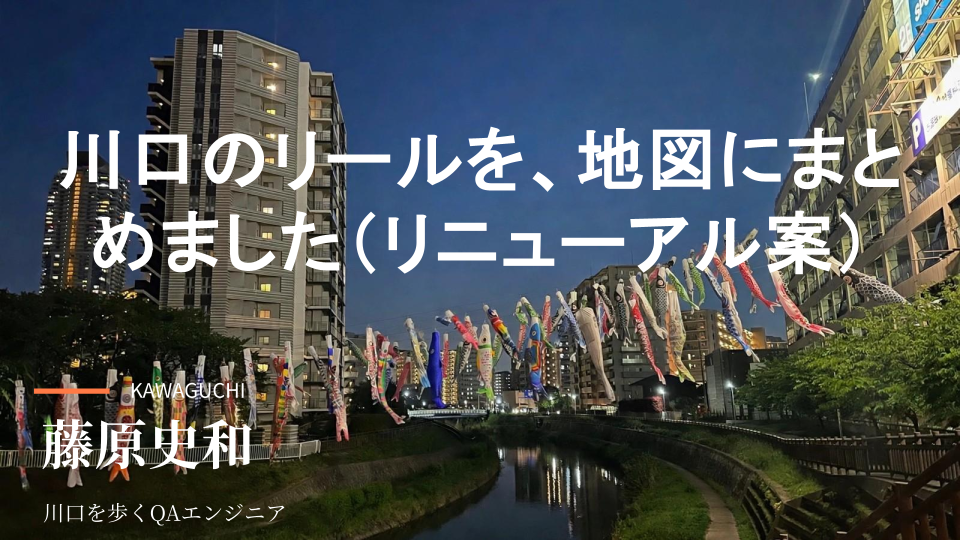
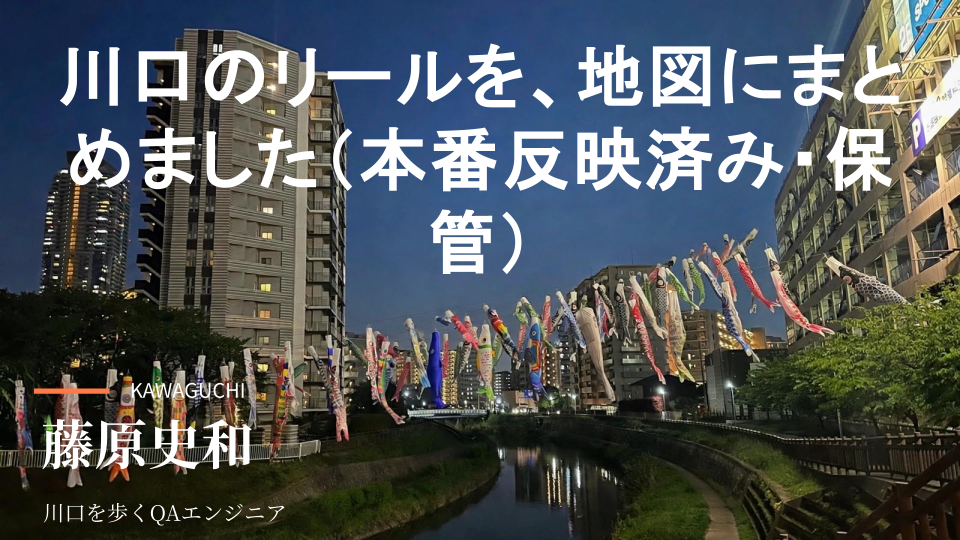
deploy: 1b3d87ea23267964468be5e464e73a02f8a7c5c0

diff --git a/staging/1hZpQ7Y9qMUD4Q0GMZRSHMPS4o0uRW0fplzaqt2qAC68.html b/staging/1hZpQ7Y9qMUD4Q0GMZRSHMPS4o0uRW0fplzaqt2qAC68.html
@@ -1,0 +1,67 @@
+<!DOCTYPE html>
+<html lang="ja">
+  <head>
+    <meta charset="UTF-8" />
+    <meta name="viewport" content="width=device-width, initial-scale=1.0" />
+    <link rel="preconnect" href="https://fonts.googleapis.com">
+    <link rel="preconnect" href="https://fonts.gstatic.com" crossorigin>
+    <link rel="preconnect" href="https://script.google.com">
+    <link rel="preconnect" href="https://script.googleusercontent.com" crossorigin>
+    <link href="https://fonts.googleapis.com/css2?family=Shippori+Mincho+B1:wght@700;800&family=Zen+Kaku+Gothic+New:wght@400;500;700&display=swap" rel="stylesheet">
+    <link rel="icon" href="/blog/favicon.ico" sizes="any">
+    <link rel="icon" type="image/png" sizes="32x32" href="/blog/favicon-32.png">
+    <link rel="icon" type="image/png" sizes="16x16" href="/blog/favicon-16.png">
+    <link rel="apple-touch-icon" sizes="180x180" href="/blog/apple-touch-icon.png">
+    <meta property="og:title" content="2026-11-15 ブログ運営の裏側：アクセス解析の「水増し」を止めた話" />
+    <meta property="og:description" content="ブログ運営の裏側：アクセス解析の「水増し」を止めた話 このブログの運営の裏側の話です。 このホームページとブログでは、11月からアクセス解析（Googleアナリティクス）を見るようにしました。どの記事がどれくらい読まれているかを知りたかった" />
+    <meta property="og:type" content="article" />
+    <meta property="og:url" content="https://freddiefujiwara.com/blog/staging/1hZpQ7Y9qMUD4Q0GMZRSHMPS4o0uRW0fplzaqt2qAC68" />
+    <meta property="og:image" content="https://freddiefujiwara.com/blog/staging/ogp/1hZpQ7Y9qMUD4Q0GMZRSHMPS4o0uRW0fplzaqt2qAC68.png" />
+    <meta property="og:image:width" content="1200" />
+    <meta property="og:image:height" content="630" />
+    <meta property="og:site_name" content="藤原史和｜川口を歩くQAエンジニア" />
+    <meta name="twitter:card" content="summary_large_image" />
+    <meta name="twitter:image" content="https://freddiefujiwara.com/blog/staging/ogp/1hZpQ7Y9qMUD4Q0GMZRSHMPS4o0uRW0fplzaqt2qAC68.png" />
+    <script>
+      (function () {
+        var l = window.location;
+
+        // 404.html から /blog/?/xxx にされている想定
+        if (l.search && l.search.startsWith('?/')) {
+          var route = l.search.slice(2); // "xxx..."
+
+          // route に &a=b が混ざる可能性があるので分離
+          var extra = '';
+          var ampIndex = route.indexOf('&');
+          if (ampIndex !== -1) {
+            extra = '?' + route.slice(ampIndex + 1);
+            route = route.slice(0, ampIndex);
+          }
+
+          // /blog/ + route へ戻す（末尾/を1回だけ調整）
+          var base = l.pathname; // "/blog/"
+          if (!base.endsWith('/')) base += '/';
+          var newUrl = base + route + extra + l.hash;
+
+          window.history.replaceState(null, '', newUrl);
+        }
+      })();
+    </script>
+    <title>2026-11-15 ブログ運営の裏側：アクセス解析の「水増し」を止めた話</title>
+      <!-- Google tag (gtag.js) -->
+    <script async src="https://www.googletagmanager.com/gtag/js?id=G-W2C6FNCW86"></script>
+    <script>
+      window.dataLayer = window.dataLayer || [];
+      function gtag(){dataLayer.push(arguments);}
+      gtag('js', new Date());
+      // Page views are sent by the router (src/analytics.js) so SPA
+      // navigations are counted without duplicates.
+      gtag('config', 'G-W2C6FNCW86', { send_page_view: false });
+    </script>
+    <script type="module" crossorigin src="/blog/staging/assets/index-pYZje3um.js"></script>
+    <link rel="stylesheet" crossorigin href="/blog/staging/assets/index-DD-P0Kwn.css">
+  </head>
+  <body>
+    <div id="app"></div>
+  </body>
+</html>

diff --git a/staging/13_nym_9GeB2g1WLFrJWM-4_Y4ozty_1ZRJV_mvA0O9g.html b/staging/13_nym_9GeB2g1WLFrJWM-4_Y4ozty_1ZRJV_mvA0O9g.html
@@ -1,0 +1,67 @@
+<!DOCTYPE html>
+<html lang="ja">
+  <head>
+    <meta charset="UTF-8" />
+    <meta name="viewport" content="width=device-width, initial-scale=1.0" />
+    <link rel="preconnect" href="https://fonts.googleapis.com">
+    <link rel="preconnect" href="https://fonts.gstatic.com" crossorigin>
+    <link rel="preconnect" href="https://script.google.com">
+    <link rel="preconnect" href="https://script.googleusercontent.com" crossorigin>
+    <link href="https://fonts.googleapis.com/css2?family=Shippori+Mincho+B1:wght@700;800&family=Zen+Kaku+Gothic+New:wght@400;500;700&display=swap" rel="stylesheet">
+    <link rel="icon" href="/blog/favicon.ico" sizes="any">
+    <link rel="icon" type="image/png" sizes="32x32" href="/blog/favicon-32.png">
+    <link rel="icon" type="image/png" sizes="16x16" href="/blog/favicon-16.png">
+    <link rel="apple-touch-icon" sizes="180x180" href="/blog/apple-touch-icon.png">
+    <meta property="og:title" content="2026-10-27 川口のリールを、地図にまとめました（差し替え前バックアップ 2026-11-06）" />
+    <meta property="og:description" content="📍川口のリールを、地図にまとめました これまでInstagramで紹介してきた川口のお店を、Googleマイマップに全部ピン留めしました。 🍜 飲食店 25軒 💈 理容・サロン 4軒 🧘 リラクゼーション 3軒 ピンをタップすると、" />
+    <meta property="og:type" content="article" />
+    <meta property="og:url" content="https://freddiefujiwara.com/blog/staging/13_nym_9GeB2g1WLFrJWM-4_Y4ozty_1ZRJV_mvA0O9g" />
+    <meta property="og:image" content="https://freddiefujiwara.com/blog/staging/ogp/13_nym_9GeB2g1WLFrJWM-4_Y4ozty_1ZRJV_mvA0O9g.png" />
+    <meta property="og:image:width" content="1200" />
+    <meta property="og:image:height" content="630" />
+    <meta property="og:site_name" content="藤原史和｜川口を歩くQAエンジニア" />
+    <meta name="twitter:card" content="summary_large_image" />
+    <meta name="twitter:image" content="https://freddiefujiwara.com/blog/staging/ogp/13_nym_9GeB2g1WLFrJWM-4_Y4ozty_1ZRJV_mvA0O9g.png" />
+    <script>
+      (function () {
+        var l = window.location;
+
+        // 404.html から /blog/?/xxx にされている想定
+        if (l.search && l.search.startsWith('?/')) {
+          var route = l.search.slice(2); // "xxx..."
+
+          // route に &a=b が混ざる可能性があるので分離
+          var extra = '';
+          var ampIndex = route.indexOf('&');
+          if (ampIndex !== -1) {
+            extra = '?' + route.slice(ampIndex + 1);
+            route = route.slice(0, ampIndex);
+          }
+
+          // /blog/ + route へ戻す（末尾/を1回だけ調整）
+          var base = l.pathname; // "/blog/"
+          if (!base.endsWith('/')) base += '/';
+          var newUrl = base + route + extra + l.hash;
+
+          window.history.replaceState(null, '', newUrl);
+        }
+      })();
+    </script>
+    <title>2026-10-27 川口のリールを、地図にまとめました（差し替え前バックアップ 2026-11-06）</title>
+      <!-- Google tag (gtag.js) -->
+    <script async src="https://www.googletagmanager.com/gtag/js?id=G-W2C6FNCW86"></script>
+    <script>
+      window.dataLayer = window.dataLayer || [];
+      function gtag(){dataLayer.push(arguments);}
+      gtag('js', new Date());
+      // Page views are sent by the router (src/analytics.js) so SPA
+      // navigations are counted without duplicates.
+      gtag('config', 'G-W2C6FNCW86', { send_page_view: false });
+    </script>
+    <script type="module" crossorigin src="/blog/staging/assets/index-pYZje3um.js"></script>
+    <link rel="stylesheet" crossorigin href="/blog/staging/assets/index-DD-P0Kwn.css">
+  </head>
+  <body>
+    <div id="app"></div>
+  </body>
+</html>

diff --git a/staging/1W-SmD-M14Pcwkx0iTqXjlB_6SnSlI6uQ1DgIg3sq0AI.html b/staging/1W-SmD-M14Pcwkx0iTqXjlB_6SnSlI6uQ1DgIg3sq0AI.html
@@ -12,7 +12,7 @@
     <link rel="icon" type="image/png" sizes="32x32" href="/blog/favicon-32.png">
     <link rel="icon" type="image/png" sizes="16x16" href="/blog/favicon-16.png">
     <link rel="apple-touch-icon" sizes="180x180" href="/blog/apple-touch-icon.png">
-    <meta property="og:title" content="2026-10-27 川口のリールを、地図にまとめました（リニューアル案）" />
+    <meta property="og:title" content="2026-10-27 川口のリールを、地図にまとめました（本番反映済み・保管）" />
     <meta property="og:description" content="📍川口のリールを、地図にまとめました これまでInstagramで紹介してきた川口のお店を、Googleマイマップに全部ピン留めしました。 🍜 飲食店 25軒 💈 理容・サロン 4軒 🧘 リラクゼーション 3軒 ピンをタップすると、" />
     <meta property="og:type" content="article" />
     <meta property="og:url" content="https://freddiefujiwara.com/blog/staging/1W-SmD-M14Pcwkx0iTqXjlB_6SnSlI6uQ1DgIg3sq0AI" />
@@ -47,7 +47,7 @@
         }
       })();
     </script>
-    <title>2026-10-27 川口のリールを、地図にまとめました（リニューアル案）</title>
+    <title>2026-10-27 川口のリールを、地図にまとめました（本番反映済み・保管）</title>
       <!-- Google tag (gtag.js) -->
     <script async src="https://www.googletagmanager.com/gtag/js?id=G-W2C6FNCW86"></script>
     <script>

diff --git a/1ORcobKE3DfRrSUV6yMUodfVQgiL1ouKaCTWKTEFUR6A.html b/1ORcobKE3DfRrSUV6yMUodfVQgiL1ouKaCTWKTEFUR6A.html
@@ -13,7 +13,7 @@
     <link rel="icon" type="image/png" sizes="16x16" href="/blog/favicon-16.png">
     <link rel="apple-touch-icon" sizes="180x180" href="/blog/apple-touch-icon.png">
     <meta property="og:title" content="2026-10-31 川口の行きたい店とスポットをまとめました" />
-    <meta property="og:description" content="📍 川口の「行きたい店・スポット」をまとめました コメントやDMでおすすめを教えていただくことが増えたので、一覧にしてみます。ありがとうございます。順番に行ってみます。 [[目次]] 飲食店 龍珠China（宮町） 川口の日本人中華。何が" />
+    <meta property="og:description" content="📍 川口の「行きたい店・スポット」をまとめました コメントやDMでおすすめを教えていただくことが増えたので、一覧にしてみます。ありがとうございます。順番に行ってみます。行ったお店は「川口のリールを、地図にまとめました」にまとめています。 " />
     <meta property="og:type" content="article" />
     <meta property="og:url" content="https://freddiefujiwara.com/blog/1ORcobKE3DfRrSUV6yMUodfVQgiL1ouKaCTWKTEFUR6A" />
     <meta property="og:image" content="https://freddiefujiwara.com/blog/ogp/1ORcobKE3DfRrSUV6yMUodfVQgiL1ouKaCTWKTEFUR6A.png" />
